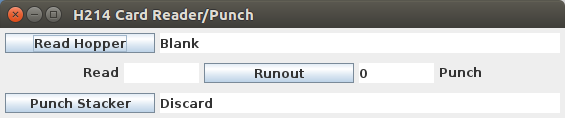
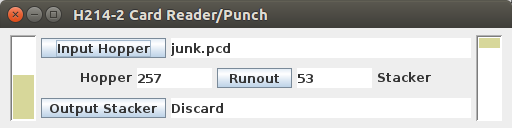
Use cards left count for input hopper, improve window appearance.

diff --git a/hw2000/www/h214readerpunch.html b/hw2000/www/h214readerpunch.html
@@ -21,11 +21,14 @@ and raised to the top, using the Front Panel menu "I/O" and selecting PunchCard.
 Closing the window only hides it, having no effect on the operation of the devices.
 
 <P>
-The "Read Hopper" button selects a file to be used to supply "cards" to the
-reader. With no file selected, an infinite supply of blank cards is available.
-The "Punch Stacker" button selects a file to be used to store punched "cards",
-or output cards will be discarded.
-Active reader or punch will show the number of cards processed for the given file.
+The "Input Hopper" button selects a file to be used to supply "cards" to the
+reader. With no file selected, an finite supply of blank cards is available.
+The "Output Stacker" button selects a file to be used to store punched
+(or read) "cards",
+otherwise output cards will be discarded.
+Note that an input file is not altered, so having output set to "Discard"
+will not affect a punch card deck being read.
+Active reader or punch will show the number of cards reamining/punched for the given file.
 File format consists of two bytes representing each card column. The two bytes form
 a 16-bit word, where only the low-order 12 bits are used. These 12 bits are
 interpreted as the punch card zones, with bit 11 being zone 12, bit 10 being

diff --git a/hw2000/P_CardReaderPunch.java b/hw2000/P_CardReaderPunch.java
@@ -5,6 +5,7 @@ import java.awt.*;
 import java.awt.event.*;
 import javax.swing.*;
 import javax.swing.text.*;
+import javax.swing.border.*;
 
 // True single-path Reader-Punch:
 //
@@ -25,6 +26,47 @@ import javax.swing.text.*;
 public class P_CardReaderPunch extends JFrame
 		implements Peripheral, SequentialRecordIO, ActionListener, WindowListener {
 
+	class CardStack extends JPanel {
+		private PunchCardStatus pcs;
+		private Color cards;
+		private boolean topDown;
+		private int scale;
+		public CardStack(PunchCardStatus pcs, boolean topDown) {
+			super();
+			this.pcs = pcs;
+			this.topDown = topDown;
+			setPreferredSize(new Dimension(26, 86));
+			setBorder(BorderFactory.createBevelBorder(BevelBorder.LOWERED));
+			setBackground(Color.white);
+			cards = new Color(215,215,154);
+			scale = 6;
+		}
+		@Override
+		public void paint(Graphics g) {
+			super.paint(g);
+			Graphics2D g2d = (Graphics2D)g;
+			g2d.translate(3, 3);
+			g2d.setColor(cards);
+			int n = (pcs.cards + scale - 1) / scale;
+			boolean max = false;
+			if (n > 80) {
+				max = true;
+				n = 80;
+			}
+			if (n > 0) {
+				if (topDown) {
+					g2d.fillRect(0, 0, 21, n + 1);
+				} else {
+					g2d.fillRect(0, 80 - n, 21, n + 1);
+				}
+				if (max) {
+					g2d.setColor(Color.red);
+					g2d.drawLine(0, 0, 20, 0);
+				}
+			}
+		}
+	}
+
 	private class PunchCardStatus {
 		boolean busy = false;
 		boolean empty = true;
@@ -41,6 +83,7 @@ public class P_CardReaderPunch extends JFrame
 		byte[] card;
 		JLabel count_pn;
 		JLabel deck_pn;
+		CardStack hopr_pn;
 		public PunchCardStatus() {
 		}
 	}
@@ -54,6 +97,8 @@ public class P_CardReaderPunch extends JFrame
 	OutputStream odev;
 	CharConverter cvt;
 	int vUnit;
+	JPanel acc; // Accessories for file chooser
+	JTextField acc_nb;
 
 	public P_CardReaderPunch(CharConverter cvt) {
 		super("H214-2 Card Reader/Punch");
@@ -61,6 +106,37 @@ public class P_CardReaderPunch extends JFrame
 			getImage(getClass().getResource("icons/pcd-96.png")));
 		this.cvt = cvt;
 		_last = new File(System.getProperty("user.dir"));
+		GridBagLayout gb;
+		GridBagConstraints gc = new GridBagConstraints();
+		gc.fill = GridBagConstraints.NONE;
+		gc.gridx = 0;
+		gc.gridy = 0;
+		gc.weightx = 0;
+		gc.weighty = 0;
+		gc.gridwidth = 1;
+		gc.gridheight = 1;
+		gc.insets.bottom = 0;
+		gc.insets.top = 0;
+		gc.insets.left = 0;
+		gc.insets.right = 0;
+		gc.anchor = GridBagConstraints.CENTER;
+		acc = new JPanel();
+		gb = new GridBagLayout();
+		acc.setLayout(gb);
+		JLabel lb = new JLabel("Num Blank");
+		gb.setConstraints(lb, gc);
+		acc.add(lb);
+		++gc.gridy;
+		lb = new JLabel("(use Cancel)");
+		gb.setConstraints(lb, gc);
+		acc.add(lb);
+		++gc.gridy;
+		acc_nb = new JTextField();
+		acc_nb.setPreferredSize(new Dimension(40, 20));
+		gb.setConstraints(acc_nb, gc);
+		acc.add(acc_nb);
+		gc.gridy = 0;
+
 		sts = new PunchCardStatus[2];
 		sts[0] = new PunchCardStatus(); // output - punch
 		sts[0].card = new byte[160]; // 80 columns, 16 bits each
@@ -71,26 +147,51 @@ public class P_CardReaderPunch extends JFrame
 		sts[0].count_pn.setOpaque(true);
 		sts[0].count_pn.setBackground(Color.white);
 		sts[0].deck_pn = new JLabel();
-		sts[0].deck_pn.setPreferredSize(new Dimension(400, 20));
+		sts[0].deck_pn.setPreferredSize(new Dimension(300, 20));
 		sts[0].deck_pn.setBackground(Color.white);
 		sts[0].deck_pn.setOpaque(true);
 		sts[0].deck_pn.setText("Discard");
+		sts[0].hopr_pn = new CardStack(sts[0], true);
 		sts[1].count_pn = new JLabel();
 		sts[1].count_pn.setPreferredSize(new Dimension(75, 20));
 		sts[1].count_pn.setOpaque(true);
 		sts[1].count_pn.setBackground(Color.white);
 		sts[1].deck_pn = new JLabel();
-		sts[1].deck_pn.setPreferredSize(new Dimension(400, 20));
+		sts[1].deck_pn.setPreferredSize(new Dimension(300, 20));
 		sts[1].deck_pn.setBackground(Color.white);
 		sts[1].deck_pn.setOpaque(true);
-		sts[1].deck_pn.setText("Blank");
+		sts[1].hopr_pn = new CardStack(sts[1], false);
+		setBlank(100);
 		setLayout(new BoxLayout(getContentPane(), BoxLayout.Y_AXIS));
 		Font font = new Font("Monospaced", Font.PLAIN, 12);
 		setFont(font);
-		JPanel pn = new JPanel();
+		gb = new GridBagLayout();
+		setLayout(gb);
+
+		JPanel pn;
+		gc.gridwidth = 3;
+		pn = new JPanel();
+		pn.setPreferredSize(new Dimension(10, 5));
+		gb.setConstraints(pn, gc);
+		add(pn);
+		++gc.gridy;
+		int top = gc.gridy;
+		gc.gridwidth = 1;
+		gc.gridheight = 3;
+		pn = new JPanel();
+		pn.setPreferredSize(new Dimension(10, 20));
+		gb.setConstraints(pn, gc);
+		add(pn);
+		++gc.gridx;
+		gb.setConstraints(sts[1].hopr_pn, gc);
+		add(sts[1].hopr_pn);
+		++gc.gridx;
+		gc.gridheight = 1;
+		pn = new JPanel();
 		pn.setLayout(new FlowLayout());
-		JButton bt = new JButton("Read Hopper");
-		bt.setPreferredSize(new Dimension(150, 20));
+		JButton bt = new JButton("Input Hopper");
+		bt.setPreferredSize(new Dimension(125, 20));
+		bt.setMargin(new Insets(5, 5, 5, 5));
 		bt.setActionCommand("reader");
 		bt.addActionListener(this);
 		JPanel pn2 = new JPanel();
@@ -98,29 +199,53 @@ public class P_CardReaderPunch extends JFrame
 		pn2.setOpaque(false);
 		pn.add(bt);
 		pn.add(sts[1].deck_pn);
+		gb.setConstraints(pn, gc);
 		add(pn);
+		++gc.gridy;
 
 		pn = new JPanel();
 		pn.setLayout(new FlowLayout());
 		bt = new JButton("Runout");
-		bt.setPreferredSize(new Dimension(150, 20));
+		bt.setPreferredSize(new Dimension(75, 20));
+		bt.setMargin(new Insets(5, 5, 5, 5));
 		bt.setActionCommand("runout");
 		bt.addActionListener(this);
-		pn.add(new JLabel("Read"));
+		pn.add(new JLabel("Hopper"));
 		pn.add(sts[1].count_pn);
 		pn.add(bt);
 		pn.add(sts[0].count_pn);
-		pn.add(new JLabel("Punch"));
+		pn.add(new JLabel("Stacker"));
+		gb.setConstraints(pn, gc);
 		add(pn);
+		++gc.gridy;
 
 		pn = new JPanel();
 		pn.setLayout(new FlowLayout());
-		bt = new JButton("Punch Stacker");
-		bt.setPreferredSize(new Dimension(150, 20));
+		bt = new JButton("Output Stacker");
+		bt.setMargin(new Insets(5, 5, 5, 5));
+		bt.setPreferredSize(new Dimension(125, 20));
 		bt.setActionCommand("punch");
 		bt.addActionListener(this);
 		pn.add(bt);
 		pn.add(sts[0].deck_pn);
+		gb.setConstraints(pn, gc);
+		add(pn);
+		gc.gridy = top;
+		++gc.gridx;
+		gc.gridheight = 3;
+		gb.setConstraints(sts[0].hopr_pn, gc);
+		add(sts[0].hopr_pn);
+		++gc.gridx;
+		pn = new JPanel();
+		pn.setPreferredSize(new Dimension(10, 20));
+		gb.setConstraints(pn, gc);
+		add(pn);
+		gc.gridx = 0;
+		gc.gridy += 3;
+		gc.gridwidth = 3;
+		pn = new JPanel();
+		pn.setPreferredSize(new Dimension(10, 5));
+		gb.setConstraints(pn, gc);
 		add(pn);
 
 		addWindowListener(this);
@@ -153,6 +278,7 @@ public class P_CardReaderPunch extends JFrame
 		sts[1].deck_pn.setText(src == null ? "Program" : src);
 		sts[1].cards = count > 0 ? count : 0;
 		sts[1].count_pn.setText(String.format("%d", sts[1].cards));
+		sts[1].hopr_pn.repaint();
 	}
 
 	private int getCol(PunchCardStatus pcs, int ix) {
@@ -206,6 +332,7 @@ public class P_CardReaderPunch extends JFrame
 		pcs.empty = true;
 		++pcs.cards;
 		pcs.count_pn.setText(String.format("%d", pcs.cards));
+		pcs.hopr_pn.repaint();
 	}
 
 	private void passCard() {
@@ -224,21 +351,28 @@ public class P_CardReaderPunch extends JFrame
 			} catch (Exception ee) {
 				// TODO: pass along EI/II exceptions
 			}
-		} else {
-			// assume a stack of BLANK cards...
+		} else if (pcs.cards > 0) {
+			// assume a *finite* stack of BLANK cards...
 			Arrays.fill(pcs.card, (byte)0);
 			a = pcs.card.length;
 		}
 		if (a < 0) {
 			pcs.empty = true;
+			pcs.cards = 0;
 			// what status to set?
 			pcs.count_pn.setText(String.format("%d END", pcs.cards));
+			pcs.hopr_pn.repaint();
 			pcs.error = true;
 			return false;
 		}
 		pcs.empty = false;
-		++pcs.cards;
-		pcs.count_pn.setText(String.format("%d", pcs.cards));
+		if (pcs.cards > 0) {
+			--pcs.cards;
+			pcs.count_pn.setText(String.format("%d", pcs.cards));
+			pcs.hopr_pn.repaint();
+		} else {
+			pcs.count_pn.setText("?");
+		}
 		return true;
 	}
 
@@ -454,13 +588,21 @@ public class P_CardReaderPunch extends JFrame
 	private File pickFile(String purpose) {
 		File file = null;
 		SuffFileChooser ch = new SuffFileChooser(purpose,
-			new String[]{"pcd"}, new String[]{"Punch Card Deck"}, _last, null);
+			new String[]{"pcd"}, new String[]{"Punch Card Deck"}, _last,
+			purpose.startsWith("Input") ? acc : null);
 		int rv = ch.showDialog(this);
 		if (rv == JFileChooser.APPROVE_OPTION) {
 			file = ch.getSelectedFile();
 			_last = file; // or use dev[unit]?
 		}
 		return file;
+	}
+
+	private void setBlank(int num) {
+		sts[1].deck_pn.setText("Blank");
+		sts[1].cards = num;
+		sts[1].count_pn.setText(String.format("%d", sts[1].cards));
+		sts[1].hopr_pn.repaint();
 	}
 
 	public void actionPerformed(ActionEvent e) {
@@ -475,18 +617,17 @@ public class P_CardReaderPunch extends JFrame
 		}
 		String s = "";
 		if (c.equals("reader")) {
-			s = "Read Hopper";
+			s = "Input Hopper";
 			if (idev != null) {
 				try {
 					idev.close();
 				} catch (Exception ee) {}
 				idev = null;
 			}
-			sts[1].deck_pn.setText("Blank");
-			sts[1].cards = 0;
-			sts[1].count_pn.setText("");
+			acc_nb.setText("100");
+			setBlank(100);
 		} else if (c.equals("punch")) {
-			s = "Punch Stacker";
+			s = "Output Stacker";
 			if (odev != null) {
 				try {
 					odev.close();
@@ -496,9 +637,17 @@ public class P_CardReaderPunch extends JFrame
 			sts[0].deck_pn.setText("Discard");
 			sts[0].cards = 0;
 			sts[0].count_pn.setText(String.format("%d", sts[0].cards));
+			sts[0].hopr_pn.repaint();
 		}
 		File f = pickFile(s);
 		if (f == null) {
+			if (c.equals("reader")) {
+				int num = 100;
+				if (!acc_nb.getText().isEmpty()) try {
+					num = Integer.valueOf(acc_nb.getText());
+				} catch (Exception ee) {}
+				setBlank(num);
+			}
 			return;
 		}
 		if (c.equals("reader")) {
@@ -509,7 +658,9 @@ public class P_CardReaderPunch extends JFrame
 				return;
 			}
 			sts[1].deck_pn.setText(f.getName());
-			sts[1].count_pn.setText("0");
+			sts[1].cards = (int)((f.length() + 159) / 160);
+			sts[1].count_pn.setText(String.format("%d", sts[1].cards));
+			sts[1].hopr_pn.repaint();
 		} else if (c.equals("punch")) {
 			try {
 				odev = new FileOutputStream(f);
@@ -519,6 +670,7 @@ public class P_CardReaderPunch extends JFrame
 			}
 			sts[0].deck_pn.setText(f.getName());
 			sts[0].count_pn.setText("0");
+			sts[0].hopr_pn.repaint();
 		}
 	}
 
